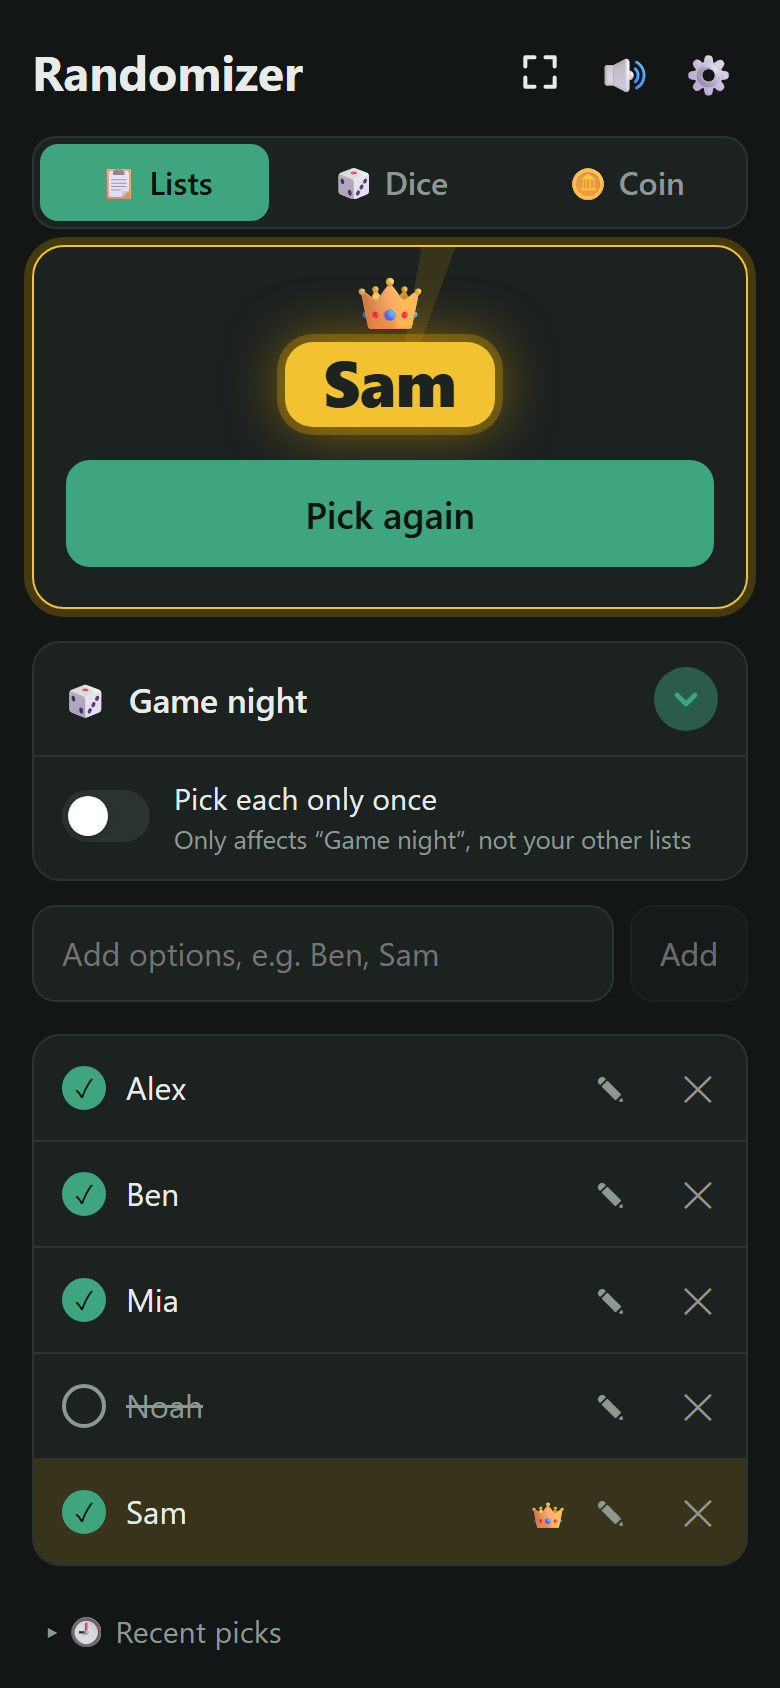
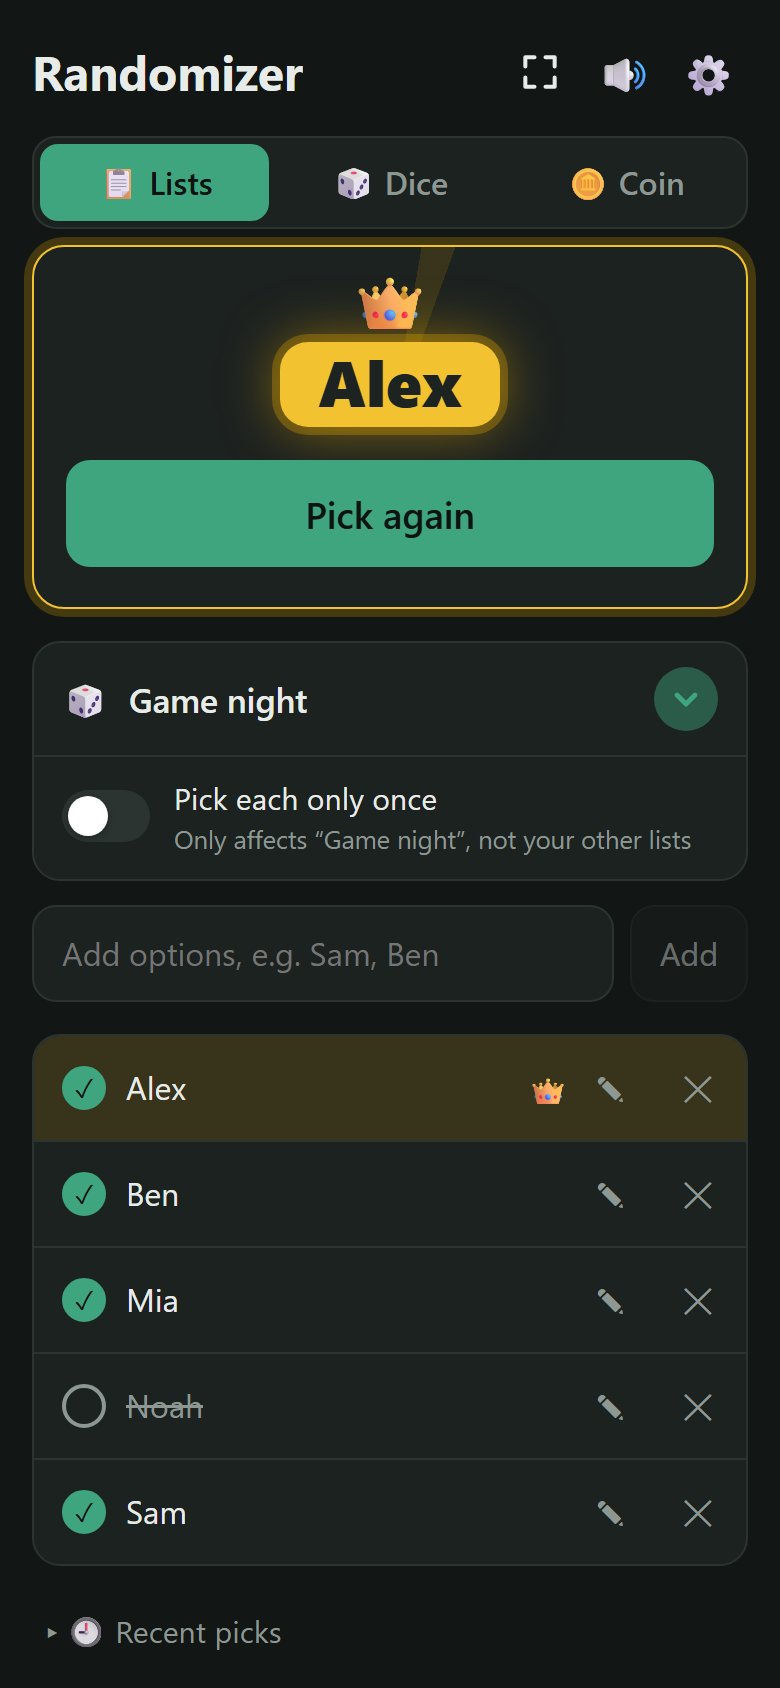
List picks spin on a slot-machine reel instead of cards; "Sam, Ben"
- The names spin past at full size behind a window, blur at speed and slow
  down with clicks, planned to stop with the pick between the gold lines;
  the picked name then turns into the gold badge where it stopped
- Settings: Reel (default) or the classic flashing names; the cards are gone
- Example in the add field now reads "Sam, Ben"
- README and screenshots updated

diff --git a/index.html b/index.html
@@ -87,6 +87,9 @@
   @keyframes rays { to { transform: rotate(360deg); } }
 
   .stage { position: relative; min-height: 3.2rem; display: grid; place-items: center; }
+  /* the reel and the result share one spot, so the picked name turns into the badge where it stopped */
+  #reel, #result { grid-area: 1 / 1; }
+  #resultParts { grid-area: 2 / 1; }
   #result {
     font-size: 2rem;
     font-weight: 800;
@@ -131,33 +134,32 @@
     55% { transform: translateY(4px) scale(1.15); opacity: 1; filter: drop-shadow(0 0 10px #b78cff); }
     100% { transform: none; filter: none; }
   }
-  /* Picking from a list with cards: face-down cards fan out and shuffle, one is
-     drawn and flips over to show the pick (Settings can switch back to the
-     flashing names) */
-  #deck { position: relative; height: 0; perspective: 700px; transition: height .3s ease; }
-  #deck.open { height: 132px; }
-  #deck.done { height: 0; transition: height .3s ease .15s; }
-  .pcard {
-    position: absolute; left: 50%; top: 14px; width: 64px; height: 90px; margin-left: -32px;
-    transform-style: preserve-3d; transition: transform .28s cubic-bezier(.3, .7, .4, 1), opacity .3s;
+  /* Picking from a list with a reel: the names, at full size, on a reel that
+     spins behind a window, blurs at speed and slows to a stop on the pick
+     (Settings can switch back to the flashing names). The window shows three
+     names; the middle one, between the gold lines, is the one that counts. */
+  #reel {
+    position: relative; height: 0; overflow: hidden; transition: height .3s ease;
+    -webkit-mask-image: linear-gradient(transparent, #000 30%, #000 70%, transparent);
+    mask-image: linear-gradient(transparent, #000 30%, #000 70%, transparent);
   }
-  .pcard-back, .pcard-front {
-    position: absolute; inset: 0; border-radius: 9px;
-    backface-visibility: hidden; -webkit-backface-visibility: hidden;
-    box-shadow: 0 3px 8px rgba(0, 0, 0, .35);
+  #reel.open { height: 150px; }
+  #reel { justify-self: stretch; }
+  #reel.done { height: 0; transition: height .35s ease; }
+  #reel.done .reel-strip { opacity: 0; transition: opacity .25s; }
+  #reel::before, #reel::after {
+    content: ""; position: absolute; left: 12%; right: 12%; height: 2px; z-index: 1;
+    background: var(--gold); opacity: .7; border-radius: 2px;
   }
-  .pcard-back {
-    background: repeating-linear-gradient(45deg, rgba(255, 255, 255, .12) 0 5px, transparent 5px 10px), var(--accent);
-    border: 3px solid #f2c230;
+  #reel::before { top: 50px; }
+  #reel.done::before, #reel.done::after { opacity: 0; transition: opacity .2s; }
+  #reel::after { top: 98px; }
+  .reel-strip { position: absolute; left: 0; right: 0; top: 0; will-change: transform; }
+  .reel-item {
+    height: 50px; display: flex; align-items: center; justify-content: center; padding: 0 12px;
+    font-size: 1.9rem; font-weight: 800; white-space: nowrap; overflow: hidden; text-overflow: ellipsis;
   }
-  .pcard-front {
-    transform: rotateY(180deg);
-    display: grid; place-items: center; padding: 6px; overflow: hidden;
-    background: radial-gradient(circle at 35% 25%, #ffe58a, #f2c230 60%, #d9a514);
-    color: #1d2321; font-weight: 800; text-align: center; line-height: 1.1; overflow-wrap: anywhere;
-  }
-  .pcard.aside { opacity: .3; }
-  #deck.done .pcard { opacity: 0; }
+  .reel-item.long { font-size: 1.35rem; }
   /* with several dice, the dice that were rolled show under the total */
   #resultParts { color: var(--muted); font-size: .95rem; margin-top: 8px; font-variant-numeric: tabular-nums; }
   #resultParts[hidden] { display: none; }
@@ -630,8 +632,8 @@
     <div id="crown" aria-hidden="true">👑</div>
     <div id="die" aria-hidden="true"></div>
     <div class="coin-box coin-only" aria-hidden="true"><canvas id="coinCanvas"></canvas></div>
-    <div id="deck" aria-hidden="true"></div>
-    <div class="stage"><div id="result" class="hint">Add some options, then tap Pick!</div><div id="resultParts" hidden></div></div>
+
+    <div class="stage"><div id="reel" aria-hidden="true"><div class="reel-strip" id="reelStrip"></div></div><div id="result" class="hint">Add some options, then tap Pick!</div><div id="resultParts" hidden></div></div>
     <button id="pick" type="button">Pick!</button>
     <div class="shake-ask" id="shakeAsk" hidden>
       <button type="button" class="shake-tip" id="shakeTip">📳 Tap to turn on shake to pick</button>
@@ -677,7 +679,7 @@
   </div>
 
   <form id="add">
-    <input id="name" placeholder="Add options, e.g. Ben, Sam" autocomplete="off" enterkeyhint="done" maxlength="600">
+    <input id="name" placeholder="Add options, e.g. Sam, Ben" autocomplete="off" enterkeyhint="done" maxlength="600">
     <button class="btn" type="submit" id="addBtn" disabled>Add</button>
   </form>
 
@@ -755,7 +757,7 @@
     <input type="range" id="spinTime" min="0" max="3" step="0.5" aria-label="Spin time in seconds">
     <div class="spin-row"><span class="once-text">Picking from a list<small>How a pick from a list is shown</small></span></div>
     <div class="seg" id="pickStyle" role="group" aria-label="How a pick from a list is shown">
-      <button type="button" class="btn" data-style="cards">🃏 Cards</button>
+      <button type="button" class="btn" data-style="reel">🎰 Reel</button>
       <button type="button" class="btn" data-style="names">✨ Flashing names</button>
     </div>
 
@@ -1131,9 +1133,11 @@ const sfx = {
     noise({ at, dur: 0.07, vol: 0.18, freq: 900, q: 1.5 });
     tone(110, { at, dur: 0.1, type: 'sine', vol: 0.09 });
   },
-  // cards: one sliding over another while shuffling, and the drawn card turning over
-  flick(strength = 1) { noise({ dur: 0.03, vol: 0.12 * strength, freq: 3200 + randomInt(800), q: 1.2 }); },
-  cardFlip() { noise({ dur: 0.2, vol: 0.08, freq: 1400, to: 3600, q: 0.9, attack: 0.04 }); },
+  // the reel clicking past each name as it turns
+  reelClick(at, strength = 1) {
+    tone(1300 + randomInt(200), { at, dur: 0.018, type: 'square', vol: 0.03 * strength });
+    noise({ at, dur: 0.012, vol: 0.05 * strength, freq: 4500, q: 2 });
+  },
   // a magic die: a soft twinkle
   sparkle(at = 0) { tone(1800 + randomInt(2200), { at, dur: 0.09, type: 'sine', vol: 0.02 }); },
   win() {
@@ -1401,8 +1405,8 @@ closeOnBackdrop(dialog);
 function resetCard() {
   winnerId = null;
   lastRoll = null;
-  $('deck').className = '';
-  $('deck').innerHTML = '';
+  $('reel').className = '';
+  $('reelStrip').innerHTML = '';
   result.className = 'hint';
   $('crown').className = '';
   $('card').className = 'starter';
@@ -2594,13 +2598,13 @@ $('pick').onclick = () => {
   $('card').className = 'starter rolling';
   $('crown').className = '';
   $('pick').textContent = 'Picking…';
-  if (pickStyle === 'cards') spinCards(playing, winner);
+  if (pickStyle === 'reel') spinReel(playing, winner);
   else { sfx.start(); spinSlots(playing, winner); }
 };
 
-// How a pick from a list is shown: cards (the default) or flashing names.
+// How a pick from a list is shown: the reel (the default) or flashing names.
 const PICK_STYLE_KEY = 'whostarts.pickStyle';
-let pickStyle = pref(PICK_STYLE_KEY, 'cards') === 'names' ? 'names' : 'cards';
+let pickStyle = pref(PICK_STYLE_KEY, 'reel') === 'names' ? 'names' : 'reel';
 function renderPickStyle() {
   for (const b of $('pickStyle').children) b.classList.toggle('on', b.dataset.style === pickStyle);
 }
@@ -2614,79 +2618,70 @@ $('pickStyle').onclick = (e) => {
 };
 renderPickStyle();
 
-// Cards: face-down cards (one for each option in the draw, up to 7) fan out and
-// shuffle, swapping places on every tick, slower and slower. Then one is drawn
-// and turns over to show the pick, which was chosen before it all started.
-function spinCards(playing, winner) {
+// The reel: a strip of names in random order with the pick at the end, turning
+// behind a window. Like the dice, it's planned before it starts: fast at first,
+// slowing down (slowDown) so it stops with the pick exactly in the middle, a
+// click for each name that passes, and the list row of the name in the middle
+// lighting up as it goes.
+const REEL_ROW = 50;     // height of one name on the reel (see .reel-item)
+const REEL_SPEED = 16;   // names per second at the start of a 3-second spin
+function spinReel(playing, winner) {
   const total = spinTicks(playing.length > 1);
   const ms = rollLength(total);
   if (ms <= 0) { land(winner); return; }
-  result.className = ''; // not 'hint', or the hint text comes back while the cards shuffle
+  // how many names pass: slowDown starts 3 times faster than its average
+  const steps = Math.max(6, Math.round(REEL_SPEED * ms / 1000 / 3));
+  const names = [];
+  for (let k = 0; k < steps; k++) {
+    let next;
+    do { next = playing[randomInt(playing.length)]; } while (playing.length > 1 && next === names[k - 1]);
+    names.push(next);
+  }
+  // the pick lands in the middle, with a name above and below it to show too
+  if (playing.length > 1 && names[steps - 1] === winner) names[steps - 1] = playing.find(p => p !== winner);
+  names.push(winner, playing[randomInt(playing.length)]);
+
+  const strip = $('reelStrip');
+  strip.innerHTML = '';
+  for (const p of names) {
+    const item = document.createElement('div');
+    item.className = 'reel-item' + (p.name.length > 12 ? ' long' : '');
+    item.textContent = p.name;
+    strip.append(item);
+  }
+  result.className = ''; // the reel shows the names; the result appears when it stops
   result.textContent = '';
-  const deck = $('deck');
-  const n = Math.min(7, playing.length);
-  deck.innerHTML = '';
-  deck.className = 'open';
-  const cards = Array.from({ length: n }, () => {
-    const card = document.createElement('div');
-    card.className = 'pcard';
-    card.innerHTML = '<div class="pcard-back"></div><div class="pcard-front"></div>';
-    deck.append(card);
-    return card;
-  });
-  const slots = cards.map((c, i) => i);
-  const spread = Math.min(34, 220 / n);
-  const fan = (card, slot) => {
-    const k = slot - (n - 1) / 2;
-    card.style.transform = `translateX(${k * spread}px) translateY(${Math.abs(k) * 3}px) rotate(${k * 7}deg)`;
-  };
-  // they start as one stack and fan out
-  requestAnimationFrame(() => requestAnimationFrame(() => cards.forEach((c, i) => fan(c, slots[i]))));
-  const chosen = cards[randomInt(n)];
-  const front = chosen.querySelector('.pcard-front');
-  front.textContent = winner.name;
-  front.style.fontSize = winner.name.length <= 6 ? '17px' : winner.name.length <= 12 ? '13px' : '10px';
+  $('reel').className = 'open';
 
-  // drawn: the chosen card comes up to the middle; the others step back
-  setTimeout(() => {
-    chosen.style.zIndex = 5;
-    chosen.style.transform = 'translateY(-4px) scale(1.3)';
-    for (const c of cards) if (c !== chosen) c.classList.add('aside');
-    sfx.flick(1.3);
-  }, ms * 0.62);
-  // turned over
-  setTimeout(() => {
-    chosen.style.transition = 'transform .45s ease';
-    chosen.style.transform = 'translateY(-4px) scale(1.3) rotateY(180deg)';
-    sfx.cardFlip();
-  }, ms * 0.8);
-
-  let tick = 0;
-  let elapsed = 0;
-  (function shuffle() {
-    tick++;
-    if (tick < total) {
-      const progress = tick / total;
-      const delay = spinDelay(progress);
-      // while still shuffling: two cards swap places
-      if (elapsed < ms * 0.6 && n > 1) {
-        const i = randomInt(n);
-        let j = randomInt(n - 1);
-        if (j >= i) j++;
-        [slots[i], slots[j]] = [slots[j], slots[i]];
-        fan(cards[i], slots[i]);
-        fan(cards[j], slots[j]);
-        sfx.flick(1 - 0.5 * progress);
-        if (navigator.vibrate) navigator.vibrate(4);
-      }
-      elapsed += delay;
-      setTimeout(shuffle, delay);
-      return;
+  // the first name starts in the middle of the window (one row from the top)
+  const at = (moved) => { strip.style.transform = `translateY(${REEL_ROW - moved * REEL_ROW}px)`; };
+  at(0);
+  for (let k = 1; k <= steps; k++) {
+    const x = 1 - (1 - k / steps) ** (1 / 3); // when name k reaches the middle
+    sfx.reelClick(x * ms / 1000, 1 - 0.5 * x);
+  }
+  const start = performance.now();
+  let lastRow = -1, lastMoved = 0, lastTime = start;
+  (function frame(now) {
+    const x = Math.min(1, (now - start) / ms);
+    const moved = steps * slowDown(x);
+    at(moved);
+    // blur while it's fast
+    const speed = (moved - lastMoved) / Math.max(1, now - lastTime) * 1000;
+    strip.style.filter = speed > 6 ? `blur(${Math.min(3, (speed - 6) / 4).toFixed(1)}px)` : '';
+    lastMoved = moved;
+    lastTime = now;
+    const row = Math.round(moved);
+    if (row !== lastRow) {
+      lastRow = row;
+      highlightRow(names[row].id);
+      if (navigator.vibrate) navigator.vibrate(4);
     }
-    deck.className = 'done';
-    setTimeout(() => { if (deck.className === 'done') deck.innerHTML = ''; }, 500);
+    if (x < 1) { requestAnimationFrame(frame); return; }
+    strip.style.filter = '';
+    $('reel').className = 'done';
     land(winner);
-  })();
+  })(start);
 }
 
 function spinSlots(playing, winner) {

diff --git a/sw.js b/sw.js
@@ -1,5 +1,5 @@
 // Bump the version when you change any file so phones pick up the update.
-const CACHE = 'whostarts-v76';
+const CACHE = 'whostarts-v77';
 const FILES = ['./', 'index.html', 'manifest.json', 'icon-192.png', 'icon-512.png'];
 
 // 'reload' skips the browser's own HTTP cache, so a new version really gets

diff --git a/README.md b/README.md
@@ -1,6 +1,6 @@
 # 👑 Randomizer
 
-A tiny web app that picks one thing at random from a list, rolls up to five 3D dice or flips a coin, with shuffling cards, tumbling dice, confetti and sound effects.
+A tiny web app that picks one thing at random from a list, rolls up to five 3D dice or flips a coin, with a spinning name reel, tumbling dice, confetti and sound effects.
 
 **Try it:** https://neckfors.github.io/randomizer/
 
@@ -36,9 +36,9 @@ Anything where you need a fair, random pick:
 ## How it works
 
 1. **Choose a list:** tap the list button under the Pick! area to see all your lists (*🎲 Game night*, *🍳 Who makes dinner*, *🍕 Where to eat*, …) and tap one to switch. Each list keeps its own options, so the names in one list never show up in another.
-2. **Add options** using the field under the list (the **Add** button lights up once you type something). Add several at once by separating them with commas (`Ben, Sam`), or paste a list with one option per line.
+2. **Add options** using the field under the list (the **Add** button lights up once you type something). Add several at once by separating them with commas (`Sam, Ben`), or paste a list with one option per line.
 3. **Tap an option** to leave it out for now (someone isn't here, the restaurant is closed…). Tap it again to bring it back.
-4. **Tap Pick!** Face-down cards fan out and shuffle, one is drawn and turns over to show the pick. It lights up in gold, with a 👑 and confetti. (Prefer the classic flashing names? Switch to them in Settings.)
+4. **Tap Pick!** Your options spin past on a slot-machine reel, big and blurred at speed, then slow down with clicks until the pick stops between the gold lines. It turns into a gold badge, with a 👑 and confetti. Like the dice, the reel is planned to stop exactly on the pick, which was chosen before it started. (Prefer the classic flashing names? Switch to them in Settings.)
 5. **Rename an option** with its **✎**: the row turns into a field with a green **Save** button. Type the new name and tap Save or press Enter (Esc cancels). Tapping somewhere else saves too.
 6. Remove an option for good with **✕**: it turns into a red **Delete** button in the same spot, with **Cancel** next to it. Tap Delete to remove it, or Cancel (or anywhere else) to keep it.
 
@@ -138,7 +138,7 @@ Tap the **⛶** button at the top to show only the picker: the Pick!, Roll! or F
 - **Shake to pick** (on by default on phones): give your phone two quick shakes instead of tapping Pick!, Roll! or Flip! The hint in the Pick! card then reads *Tap Pick! or shake your phone*. On iPhone, a *📳 Tap to turn on shake to pick* button shows first, because Safari asks for motion access once. Tap *No thanks* next to it if you don't want shaking. You can switch it on or off here any time.
 - **Sound effects:** on or off (the 🔊 button at the top does the same).
 - **Spin time:** how long a pick, roll or flip spins before it lands, from *Instant* to 3 seconds (the default).
-- **Picking from a list:** *🃏 Cards* (the default: cards shuffle and one is drawn and turned over) or *✨ Flashing names* (the classic slot-machine spin through the names).
+- **Picking from a list:** *🎰 Reel* (the default: your options spin past on a slot-machine reel) or *✨ Flashing names* (the names flash by in the card, the classic look).
 - **Backup:** *Save backup* downloads a file with all your lists. *Restore* loads such a file and replaces your lists with it. Use it to keep your lists safe, or to move them to a new phone.
 
 ## Install on your phone
@@ -178,7 +178,7 @@ Plain HTML, CSS and JavaScript, with no build step or dependencies.
 ### Making changes
 
 Edit the files and push to `main`. GitHub Pages publishes automatically.
-**Change `CACHE` in `sw.js` every time** (for example `whostarts-v76` → `whostarts-v77`), otherwise installed copies keep showing the old version and the update bar never appears.
+**Change `CACHE` in `sw.js` every time** (for example `whostarts-v77` → `whostarts-v78`), otherwise installed copies keep showing the old version and the update bar never appears.
 
 ## Support
 
